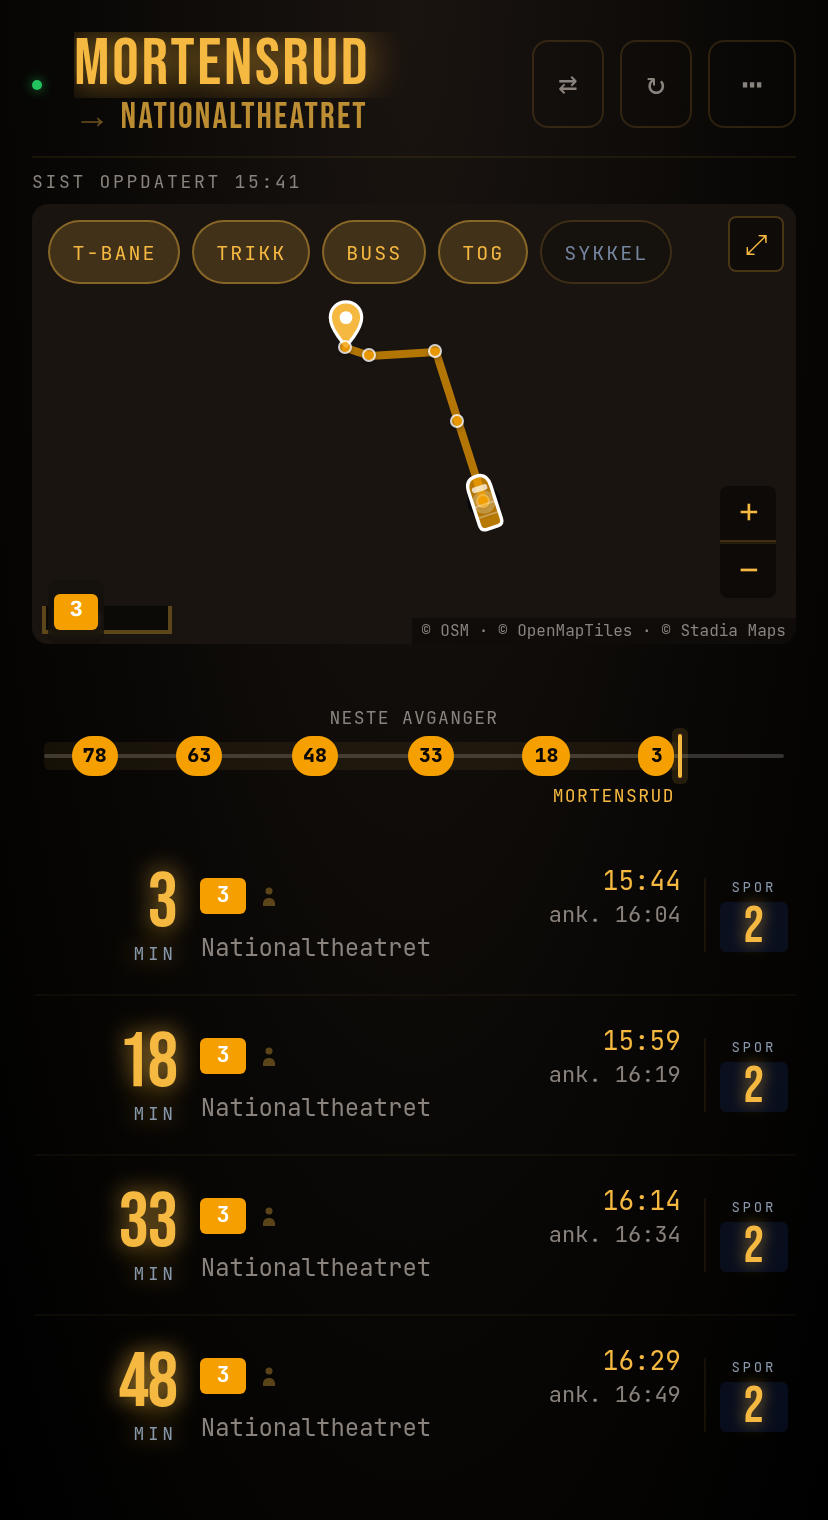
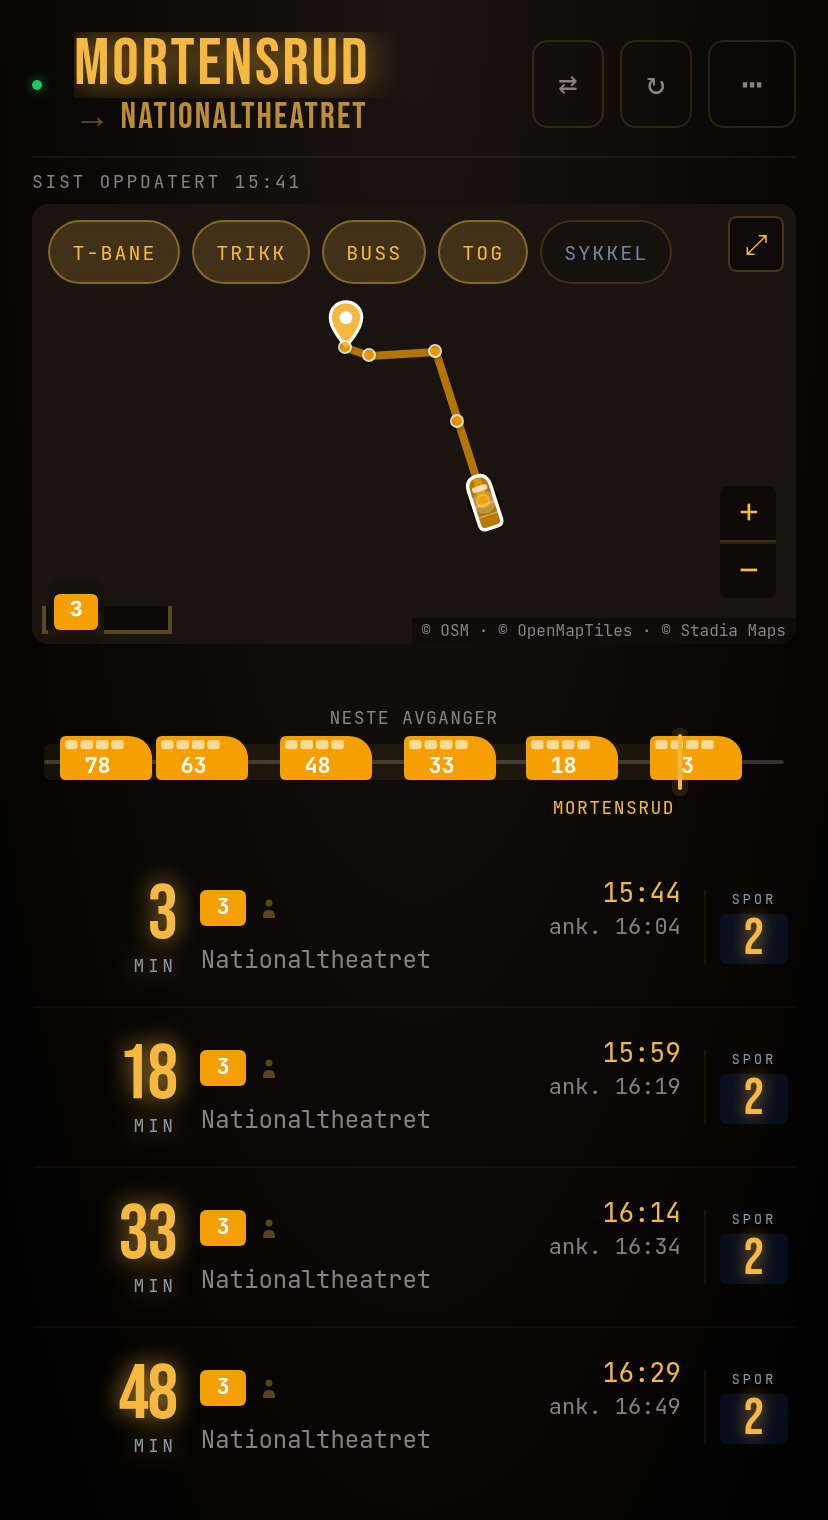
v1.59.0: Stripa viser vogner, ikke piller (#291)
Bedt om: «Kunne rundingene med minutter tallet på strip heller vært lik
vognene på kartet, bare at på strip ser vi vognene fra siden — med minutter
tallet trykket på siden? Samma farge-valg som på kartet.»

Nedtellingspilla er byttet mot et sidebilde av kjøretøyet, med minuttene
skrevet på flanken. Samme silhuetter og samme fargeregel som kartet, så
stripa og kartet sier det samme om det samme toget framfor å ha hvert sitt
språk for det.

Sideriss, ikke planriss: kartet roterer merkene sine til en kurs, stripa er
en tidsakse uten noen. Et kjøretøy på en tidslinje er noe du ser kjøre forbi.

Tre forsøk, hvert avgjort ved å se på et forstørret utsnitt:

- vognen VED SIDEN AV tallet: glyfene kolliderte og vognen var uleselig
- tallet inni, svak nese: ingen kollisjon, men silhuetten sa fortsatt «pille»
- dette: skinna 22 → 28 px, tydelig neserake, vindusbånd delt i ruter, hjul
  på trikk og buss, tallet på flanken

`sideVehicleSvg(mode, colour, label, dim)` i `mapIcons.js`, ren og
eksportert. `SIDE_VEHICLE_MAX_PX` utledes av silhuettene, så
klyngeterskelen på stripa følger glyfen framfor et tall skrevet av for hånd.

To ting rettet underveis, begge funnet ved å se på kontaktarket:

- ukjent modus fikk T-banens FORM, men togets FARGE — et kjøretøy som ikke
  hørte til noen modus. Modusen slås nå opp én gang
- `.ls-live` tegnet en firkant rundt SVG-ens boks. Ringen var riktig da
  glyfen var en pille og boksen VAR formen; nå er den en drop-shadow som
  følger omrisset
[…]

diff --git a/tests/mapIcons.test.js b/tests/mapIcons.test.js
@@ -3,7 +3,7 @@ import { describe, it, expect, vi } from 'vitest';
 // divIcon just returns its options, so the generated markup can be inspected.
 vi.mock('leaflet', () => ({ default: { divIcon: (opts) => opts } }));
 
-import { makeVehicleIcon } from '../src/ui/mapIcons.js';
+import { makeVehicleIcon, sideVehicleSvg, SIDE_VEHICLE_MAX_PX } from '../src/ui/mapIcons.js';
 
 const html = (mode, opts) => makeVehicleIcon(mode, '#f5a000', opts).html;
 // The body is the tapered silhouette, named rather than found by position —
@@ -142,5 +142,97 @@ describe('makeVehicleIcon', () => {
 
   it('carries no line code — the map only ever draws one line at a time', () => {
     expect(html('metro', { bearing: 90 })).not.toMatch(/>\s*\d+\s*</);
+  });
+});
+
+// v1.59.0. The strip's countdown pills became side views of the same vehicles
+// the map draws in plan view, with the minutes on the flank. Two rules carry
+// it, and both fail silently: a shape that clips outside the viewBox simply
+// vanishes, and a mode that falls through to the wrong silhouette still looks
+// like a vehicle — just the wrong one.
+describe('sideVehicleSvg', () => {
+  const svg = (mode, colour, label, dim) => sideVehicleSvg(mode, colour, label, dim);
+  const num = (s, name) => Number(s.match(new RegExp('\\s' + name + '="([^"]*)"'))[1]);
+
+  it('gives each mode its own silhouette', () => {
+    const widths = ['metro', 'rail', 'tram', 'bus'].map(m => num(svg(m, null, '5'), 'width'));
+    expect(new Set(widths).size).toBe(4);
+  });
+
+  it('draws wheels under the road and street modes only', () => {
+    const circles = (m) => (svg(m, null, '5').match(/<circle/g) || []).length;
+    expect(circles('tram')).toBe(2);
+    expect(circles('bus')).toBe(2);
+    expect(circles('metro')).toBe(0);
+    expect(circles('rail')).toBe(0);
+  });
+
+  it('falls back to the metro silhouette for a mode it does not know', () => {
+    expect(svg('water', null, '5')).toBe(svg('metro', null, '5'));
+  });
+
+  // track.js passes leg.lineBg, which entur.js can leave as an empty string.
+  // Without the guard that reaches the DOM as fill="", an invisible vehicle.
+  it('falls back to the mode colour when the operator gave none', () => {
+    expect(svg('tram', '', '5')).not.toContain('fill=""');
+    expect(svg('tram', '', '5')).toContain('#7b3999');
+  });
+
+  it('writes the label on the flank', () => {
+    expect(svg('metro', null, 'nå')).toContain('>nå</text>');
+    expect(svg('metro', null, '-3', true)).toContain('>-3</text>');
+  });
+
+  // A vehicle drawn past the viewBox is cropped by the browser with no error
+  // and no warning — the wheels sat 0.4px outside before this test existed.
+  it('keeps everything it draws inside its own viewBox', () => {
+    ['metro', 'rail', 'tram', 'bus'].forEach(m => {
+      const s = svg(m, null, '12');
+      const w = num(s, 'width'), h = num(s, 'height');
+      const nums = (s.match(/<path d="([^"]*)"/)[1].match(/-?\d+(\.\d+)?/g) || []).map(Number);
+      // The path alternates x and y after the leading M, so bound both by the
+      // larger dimension rather than pairing them up — a coordinate outside
+      // the box fails either way, and this cannot mis-pair on a Q command.
+      nums.forEach(n => { expect(n).toBeGreaterThanOrEqual(0); expect(n).toBeLessThanOrEqual(w); });
+      (s.match(/<circle[^>]*>/g) || []).forEach(c => {
+        const cy = num(c, 'cy'), r = num(c, 'r'), cx = num(c, 'cx');
+        expect(cy + r).toBeLessThanOrEqual(h);
+        expect(cx + r).toBeLessThanOrEqual(w);
+        expect(cx - r).toBeGreaterThanOrEqual(0);
+      });
+    });
+  });
+
+  // The whole point of the redesign: the strip and the map say the same thing
+  // about the same train. If the strip stopped honouring the line's colour it
+  // would still look right — just no longer connected to the map.
+  it('wears the line colour it is given', () => {
+    expect(svg('metro', '#00b0ff', '5')).toContain('#00b0ff');
+  });
+
+  it('quiets, rather than strips, the vehicle that has already gone', () => {
+    const gone = svg('metro', null, '-3', true);
+    const here = svg('metro', null, '3', false);
+    // Same parts, less presence — a departed train is context, not absence.
+    expect((gone.match(/<rect/g) || []).length).toBe((here.match(/<rect/g) || []).length);
+    expect(gone).toContain('fill-opacity=".55"');
+    expect(here).toContain('fill-opacity="1"');
+  });
+});
+
+// The strip sizes its clustering threshold from this, so a silhouette that
+// grows without the constant growing means glyphs that overlap.
+describe('SIDE_VEHICLE_MAX_PX', () => {
+  // board.test.js stubs this module and hardcodes the number, because the
+  // strip reads it at module scope. Pinned here so a wider silhouette fails
+  // in the one place that can see both sides.
+  it('is 48 — the number board.test.js stubs', () => {
+    expect(SIDE_VEHICLE_MAX_PX).toBe(48);
+  });
+
+  it('is the widest silhouette any mode draws', () => {
+    const widths = ['metro', 'rail', 'tram', 'bus']
+      .map(m => Number(sideVehicleSvg(m, null, '5').match(/\swidth="([^"]*)"/)[1]));
+    expect(SIDE_VEHICLE_MAX_PX).toBe(Math.max(...widths));
   });
 });

diff --git a/src/ui/mapIcons.js b/src/ui/mapIcons.js
@@ -193,6 +193,84 @@ export function makeVehicleIcon(mode, color, opts = {}) {
   });
 }
 
+/**
+ * The same vehicle, seen from the SIDE, with its minutes written on the flank.
+ *
+ * The departure strip is a time axis, not a map: it has no heading to rotate
+ * to, and a train on a timeline is something you watch go past. So the map's
+ * plan view would be wrong here, and the rounded countdown pill this replaces
+ * said nothing about what was coming — bus, tram and metro were one shape in
+ * one accent colour. The silhouettes and the colour rule are the map's, so the
+ * strip and the map say the same thing about the same train.
+ *
+ * @param {string} mode  metro | rail | tram | bus — anything else gets metro
+ * @param {string} color line colour; the mode's own when the caller has none
+ * @param {string} label what to write on the flank
+ * @param {boolean} [dim] the quieter treatment for a train already gone
+ */
+const _SIDE = {
+  //        nose = how far the front rakes back    wheels for road/street rail
+  metro: { len: 46, nose: 12, wheels: false },
+  rail:  { len: 48, nose: 16, wheels: false },
+  tram:  { len: 44, nose: 10, wheels: true },
+  bus:   { len: 40, nose: 7,  wheels: true },
+};
+
+export function sideVehicleSvg(mode, color, label, dim) {
+  // Resolve the mode ONCE. Looking the shape and the colour up separately
+  // gave an unknown mode a metro body in rail grey — a vehicle that belongs
+  // to neither mode, and nothing on screen would have said so.
+  const m = _SIDE[mode] ? mode : 'metro';
+  const sh = _SIDE[m];
+  const body = color || _MODE_COLOUR[m];
+  const w = sh.len, h = 26;
+  const bh = sh.wheels ? 20 : 22;           // wheels need room beneath
+  const y = 1;
+  const r = (n) => Math.round(n * 100) / 100;
+  // Nose to the RIGHT: the strip runs left to right towards your stop, so the
+  // vehicle faces the way it is travelling and the way the reader is reading.
+  // The rake is the whole silhouette at this size — a subtle one was tried
+  // first, and read as a rounded rectangle with a dot on it.
+  const d = 'M0 ' + (y + 3)
+    + 'Q0 ' + y + ' 3 ' + y
+    + 'L' + r(w - sh.nose) + ' ' + y
+    + 'Q' + r(w - sh.nose * 0.15) + ' ' + r(y + 0.5) + ' ' + w + ' ' + r(y + bh * 0.45)
+    + 'L' + w + ' ' + r(y + bh - 3)
+    + 'Q' + w + ' ' + r(y + bh) + ' ' + r(w - 3) + ' ' + r(y + bh)
+    + 'L3 ' + r(y + bh) + 'Q0 ' + r(y + bh) + ' 0 ' + r(y + bh - 3) + 'Z';
+  // A window band along the roof, cut into panes — the same job the carriage
+  // joints do in the plan view: it says "vehicle" before anything is read.
+  const bandY = y + 2, bandH = 4.6;
+  const bandEnd = w - sh.nose * 0.55;
+  const panes = [];
+  const paneW = 6.2;
+  for (let x = 2.6; x + paneW < bandEnd; x += paneW + 1.5) {
+    panes.push('<rect x="' + r(x) + '" y="' + r(bandY) + '" width="' + paneW
+      + '" height="' + bandH + '" rx="1.2" fill="#fff" opacity="' + (dim ? '.4' : '.6') + '"/>');
+  }
+  const wheels = sh.wheels
+    ? '<circle cx="' + r(w * 0.26) + '" cy="' + r(y + bh + 1.9) + '" r="2.4" fill="' + body + '"'
+      + ' fill-opacity="' + (dim ? '.55' : '1') + '"/>'
+      + '<circle cx="' + r(w * 0.72) + '" cy="' + r(y + bh + 1.9) + '" r="2.4" fill="' + body + '"'
+      + ' fill-opacity="' + (dim ? '.55' : '1') + '"/>'
+    : '';
+  // The minutes sit on the body's floor rather than under the band: "nå" has a
+  // ring over the å, and band-relative placement put it through the windows.
+  return '<svg class="ls-veh" width="' + w + '" height="' + h + '"'
+    + ' viewBox="0 0 ' + w + ' ' + h + '" aria-hidden="true" focusable="false">'
+    + '<path d="' + d + '" fill="' + body + '" fill-opacity="' + (dim ? '.55' : '1') + '"/>'
+    + panes.join('')
+    + '<text x="' + r((w - sh.nose * 0.7) / 2) + '" y="' + r(y + bh - 3.5) + '"'
+    + ' text-anchor="middle" font-family="JetBrains Mono, ui-monospace, monospace"'
+    + ' font-size="11" font-weight="700" fill="#fff"'
+    + ' opacity="' + (dim ? '.85' : '1') + '">' + label + '</text>'
+    + wheels
+    + '</svg>';
+}
+
+/** How wide the widest glyph is, so the strip can space them without guessing. */
+export const SIDE_VEHICLE_MAX_PX = Math.max(...Object.values(_SIDE).map(v => v.len));
+
 // Transit brand colours, kept because they carry meaning rather than style.
 const _MODE_COLOUR = {
   metro: '#f5a000',

diff --git a/src/views/board.js b/src/views/board.js
@@ -15,7 +15,7 @@ import L from 'leaflet';
 import { fetchBysykkel } from '../api/bysykkel.js';
 import { fetchScooters }    from '../api/scooters.js';
 import { fetchNearbyStops } from '../api/stops.js';
-import { makeStopIcon, makeVehicleIcon, makeRouteStopIcon, mapHalo } from '../ui/mapIcons.js';
+import { makeStopIcon, makeVehicleIcon, makeRouteStopIcon, mapHalo, sideVehicleSvg, SIDE_VEHICLE_MAX_PX } from '../ui/mapIcons.js';
 import { fetchVehiclePositions, livePosition } from '../api/vehicles.js';
 import { fetchInflight } from '../api/entur.js';
 import { createMap, drawRoute, drawWalk } from '../ui/map.js';
@@ -1288,7 +1288,10 @@ const _STRIP_LOOKBACK = 4;
 
 // Widest a train glyph gets, plus breathing room. Two glyphs closer than this
 // would touch, so they collapse into one.
-const _STRIP_GLYPH_PX = 46;
+// The widest silhouette, plus room for a "+N" when a cluster is stacked.
+// This feeds the clustering threshold, so it has to track the glyph: too
+// small and they overlap instead of stacking.
+const _STRIP_GLYPH_PX = SIDE_VEHICLE_MAX_PX + 16;
 
 // Where your stop sits across the rail, and where a departed train settles in
 // the room kept to its right.
@@ -1493,6 +1496,10 @@ export function _buildStrip(candidates, dir, lineOn, now, livePos) {
       // which line it is. Same source as the badge in the list and the pill
       // above, so the three never disagree.
       colour: (ln.presentation && ln.presentation.colour) ? '#' + ln.presentation.colour : null,
+      // Which silhouette the strip draws. The line's own mode, not the
+      // board's filter: a tram and a metro on one axis should not be the
+      // same shape just because both are switched on.
+      mode: ln.transportMode || 'metro',
       label: (c.destinationDisplay && c.destinationDisplay.frontText) || '',
     });
   });
@@ -1743,7 +1750,12 @@ function renderLineStrip(visibleDeps) {
     // The strip must read the same as the row beneath it. Both call it "nå"
     // for the first minute past the scheduled time, and only then start
     // counting how long ago it went.
-    const body = '<b>' + (lead.ago >= 1 ? '-' + lead.ago : lead.ago !== null || lead.mins <= 0 ? 'nå' : lead.mins) + '</b>'
+    // The minutes ride on the vehicle's flank. Same silhouettes and the same
+    // colour rule as the map — see sideVehicleSvg — so the strip and the map
+    // read as one thing rather than two languages for the same train.
+    const mins = lead.ago >= 1 ? '-' + lead.ago
+      : (lead.ago !== null || lead.mins <= 0) ? 'nå' : String(lead.mins);
+    const body = sideVehicleSvg(lead.mode, lead.colour, mins, !!lead.departed)
       + (n > 1 ? '<i>+' + (n - 1) + '</i>' : '');
     const title = lead.departed
       ? (n > 1 ? n + ' tog har gått, siste ' : '')
@@ -1757,10 +1769,10 @@ function renderLineStrip(visibleDeps) {
       : cl.group
         ? 'om ' + lead.mins + ' min · trykk for å lukke gruppen'
         : esc(lead.label) + ' · trykk for å se raden';
-    // Several lines can share the axis now, so a glyph carries its own line
-    // colour. Falls back to the accent when the operator gave none.
-    const tint = lead.colour ? 'background:' + lead.colour + ';border-color:' + lead.colour + ';' : '';
-    return '<span class="' + cls + '" style="' + tint + 'left:' + cl.pos.toFixed(2) + '%"'
+    // The line colour is on the vehicle itself now, so the glyph carries no
+    // background of its own — a coloured pill behind a coloured train would
+    // say the same thing twice, in two shades.
+    return '<span class="' + cls + '" style="left:' + cl.pos.toFixed(2) + '%"'
       + ' role="button" tabindex="0" data-count="' + n + '"'
       + (cl.group ? ' data-group="' + esc(cl.group) + '"' : '')
       + ' data-jid="' + esc(lead.id) + '"'

diff --git a/src/style/board.css b/src/style/board.css
@@ -409,15 +409,17 @@
 }
 
 .ls-rail{
-  position:relative;height:22px;
+  /* Room for a vehicle rather than a pill: a side view needs a window band
+     AND its minutes, and 22px could carry only one of them legibly. */
+  position:relative;height:28px;
   border-radius:2px;
 }
 .ls-rail::before{
-  content:"";position:absolute;left:0;right:0;top:10px;height:2px;
+  content:"";position:absolute;left:0;right:0;top:13px;height:2px;
   background:rgba(var(--text-muted-rgb),.35);border-radius:1px;
 }
 /* Tint behind each half, so the split reads before the captions are read. */
-.ls-zone{position:absolute;top:4px;height:14px;border-radius:3px}
+.ls-zone{position:absolute;top:5px;height:18px;border-radius:3px}
 .ls-zone-appr{left:0;background:rgba(var(--accent-rgb),.07)}
 
 /* Which way the line runs. One arrowhead for the whole rail. */
@@ -431,27 +433,36 @@
 
 /* Your stop: a divide between the two halves, not just another tick. */
 .ls-you{
-  position:absolute;top:0;width:2px;height:22px;margin-left:-1px;
+  position:absolute;top:0;width:2px;height:28px;margin-left:-1px;
   background:var(--accent);border-radius:1px;
   box-shadow:0 0 0 3px rgba(var(--accent-rgb),.12);
 }
 .ls-train{
-  position:absolute;top:1px;margin-left:-9px;
-  min-width:18px;height:20px;border-radius:10px;
-  display:flex;align-items:center;justify-content:center;
+  position:absolute;top:0;
+  /* Anchored on its centre, like the pill it replaces, so the axis maths
+     upstream needs no change. */
+  transform:translateX(-50%);
+  height:26px;
+  display:flex;align-items:center;
   font-family:"JetBrains Mono",ui-monospace,monospace;
   font-size:10px;font-weight:700;line-height:1;
   box-sizing:border-box;
 }
-/* A train you can still catch. */
-.ls-appr{
-  background:var(--accent);color:var(--bg);
-  border:1.5px solid var(--surface);
-  padding:0 .3rem;
-}
+/* The glyph IS the vehicle now — no pill behind it. Side view rather than the
+   map's plan view: the map rotates its markers to a heading, the strip is a
+   time axis with none, and a vehicle on a timeline is something you watch go
+   past. The minutes are written on the flank; see sideVehicleSvg. */
+.ls-veh{ flex:0 0 auto; display:block }
+.ls-appr{ background:none;border:0;padding:0 }
 /* A train already ahead of you: context, not a choice. */
 
-.ls-live{box-shadow:0 0 0 2px rgba(var(--accent-rgb),.25)}
+/* A measured position, glowing along its own outline. A box-shadow ring was
+   right when the glyph was a pill and its box WAS its shape; on an SVG
+   vehicle it drew a rectangle around the silhouette instead of round it. */
+.ls-live{
+  filter:drop-shadow(0 0 2px rgba(var(--accent-rgb),.9))
+         drop-shadow(0 0 4px rgba(var(--accent-rgb),.45));
+}
 .ls-ends{
   position:relative;height:12px;
   font-family:"JetBrains Mono",ui-monospace,monospace;

diff --git a/tests/board.test.js b/tests/board.test.js
@@ -3,7 +3,15 @@ import { describe, it, expect, vi } from 'vitest';
 // board.js pulls in Leaflet, maps and a lot of sibling views. Stub the heavy
 // edges so the pure display helpers can be exercised on their own.
 vi.mock('leaflet', () => ({ default: {} }));
-vi.mock('../src/ui/mapIcons.js', () => ({ makeStopIcon: vi.fn(), makeVehicleIcon: vi.fn(), makeRouteStopIcon: vi.fn() }));
+// The real module reaches Leaflet, so it is stubbed — but SIDE_VEHICLE_MAX_PX
+// is read at module scope to size the strip's clustering threshold, so the
+// stub has to carry the real number or the clustering tests below measure a
+// board nobody ships. mapIcons.test.js pins it to this same 48.
+vi.mock('../src/ui/mapIcons.js', () => ({
+  makeStopIcon: vi.fn(), makeVehicleIcon: vi.fn(), makeRouteStopIcon: vi.fn(),
+  mapHalo: vi.fn(() => '#fff'), sideVehicleSvg: vi.fn(() => '<svg/>'),
+  SIDE_VEHICLE_MAX_PX: 48,
+}));
 vi.mock('../src/ui/mapCompass.js', () => ({ addCompass: vi.fn() }));
 vi.mock('../src/views/spectate.js', () => ({ closeSpectatePanel: vi.fn() }));
 
